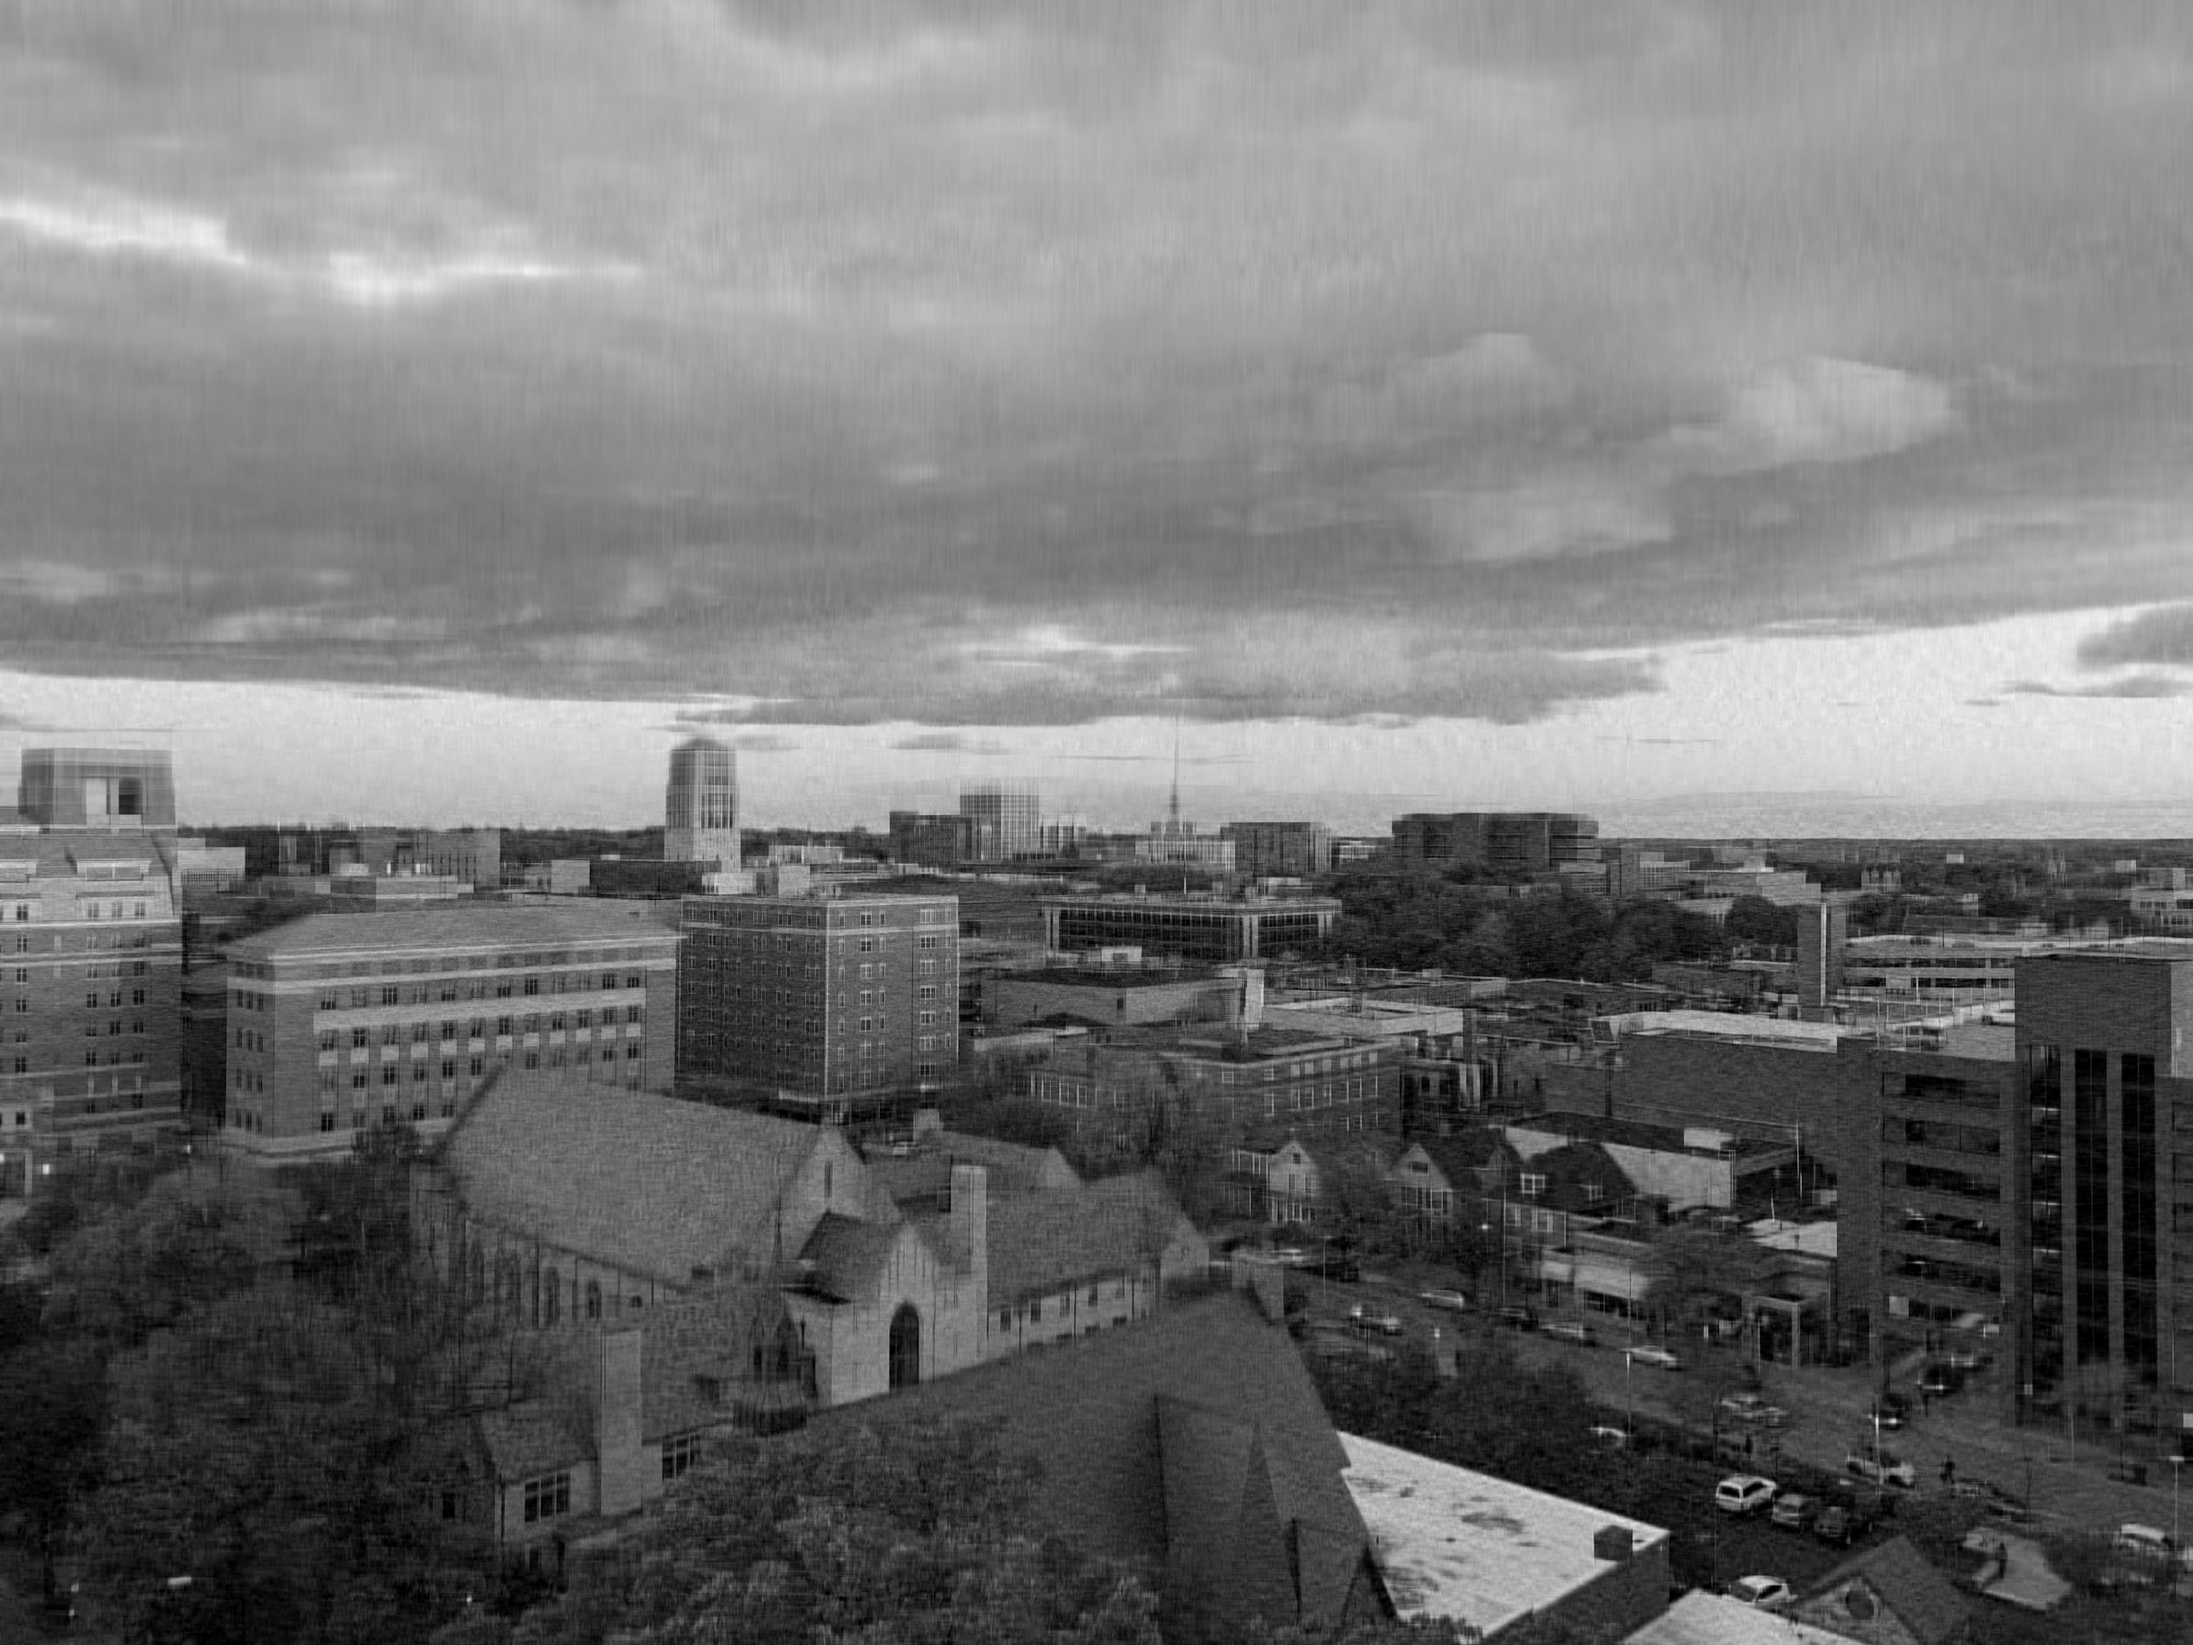
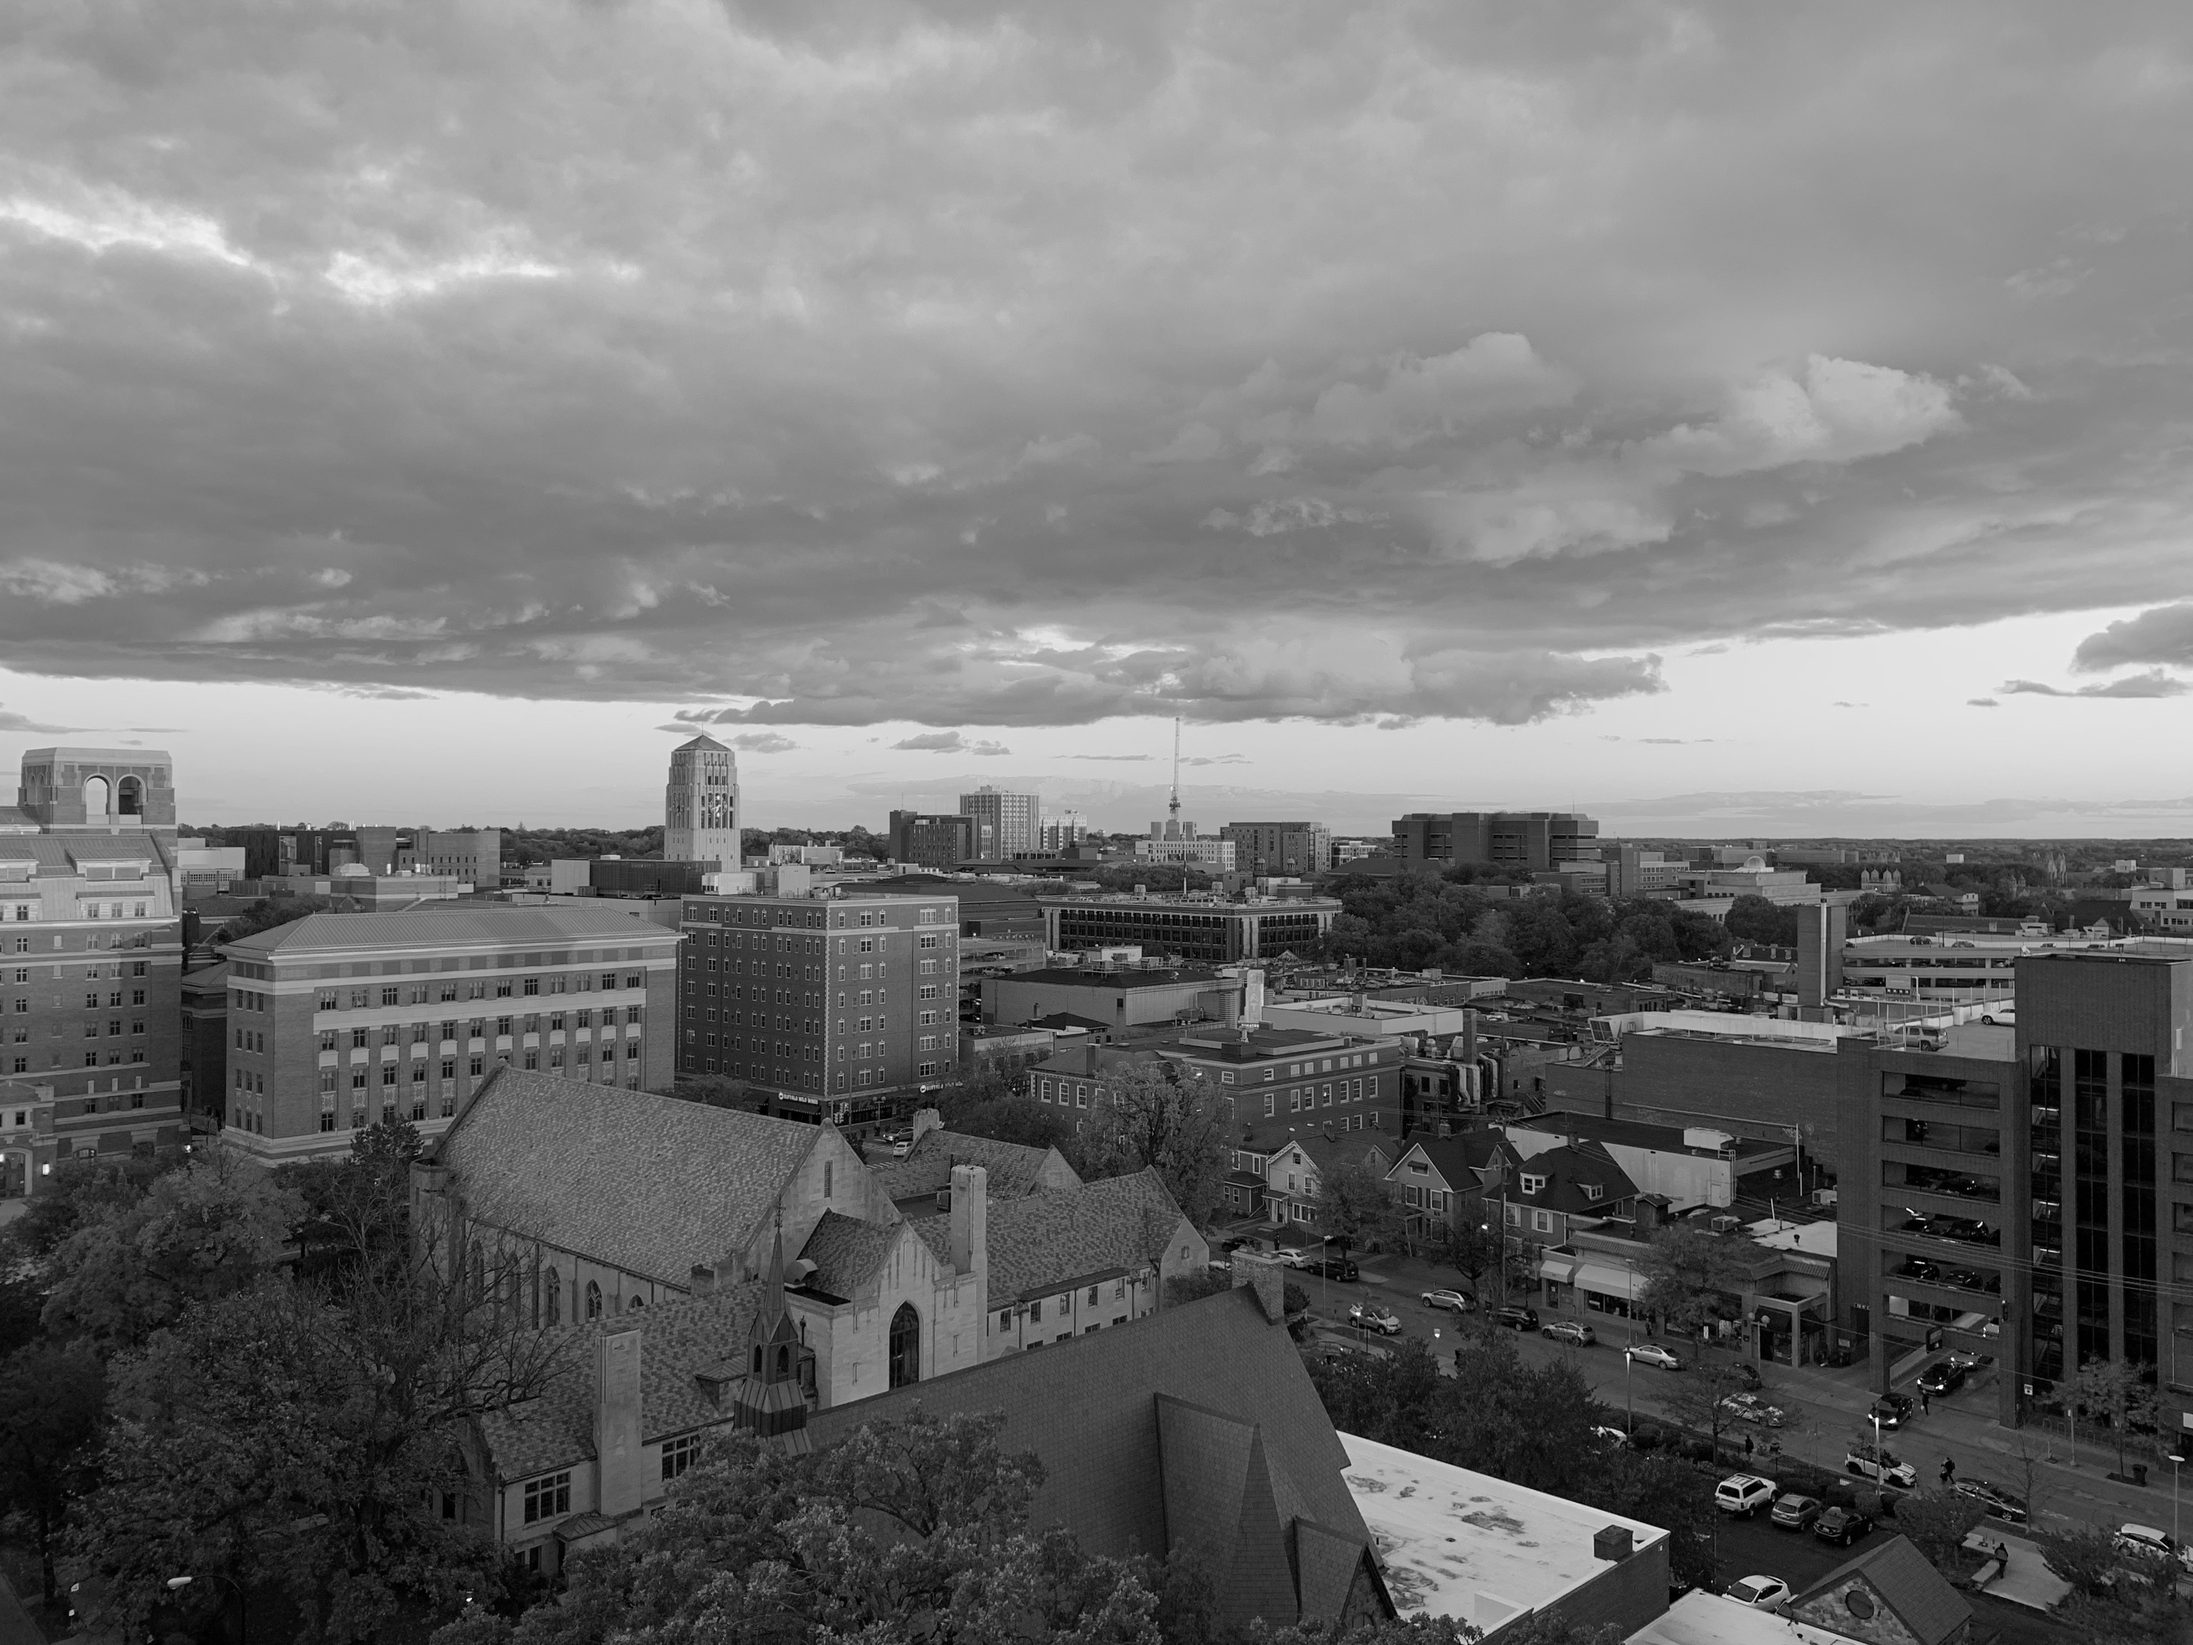
final

diff --git a/simpleSVD.py b/simpleSVD.py
@@ -1,44 +1,33 @@
-#refrence from https://www.accel.ai/anthology/2022/8/17/svd-algorithm-tutorial-in-python
+import matplotlib.pyplot as plt
 import numpy as np
-from scipy.linalg import svd
 
-#V tansposed matrix
-def calcVT(M):
-    # Compute VT matrix
-    newM = np.dot(M.T, M)
-    eigenvalues, eigenvectors = np.linalg.eig(newM)
-    idx = np.argsort(eigenvalues)[::-1]
-    V = eigenvectors[:, idx].T
+def plot_matrix(matrix):
+    plt.imshow(matrix, cmap='binary', interpolation='nearest')
+    plt.show()
 
-    return V
+# Example matrix
+matrix = np.array([[1, 1, 1, 0, 0, 0, 0, 1, 1, 1],
+ [1, 1, 1, 1, 0, 0, 1, 1, 1, 1],
+ [1, 1, 1, 1, 0, 0, 1, 1, 1, 1],
+ [0, 1, 1, 1, 1, 1, 1, 1, 1, 0],
+ [0, 1, 1, 1, 1, 1, 1, 1, 1, 0],
+ [0, 1, 1, 0, 1, 1, 0, 1, 1, 0],
+ [0, 1, 1, 0, 1, 1, 0, 1, 1, 0],
+ [1, 1, 1, 0, 0, 0, 0, 1, 1, 1],
+ [1, 1, 1, 1, 0, 0, 1, 1, 1, 1],
+ [1, 1, 1, 1, 0, 0, 1, 1, 1, 1]])
 
-def calcU(M):
-    # Compute U matrix
-    newM = np.dot(M, M.T)
-    eigenvalues, eigenvectors = np.linalg.eig(newM)
-    ncols = np.argsort(eigenvalues)[::-1] 
-    U = eigenvectors[:, ncols]
-
-    return U
-
-#Function that calculates Eigenvalues corresponding to the Sigma Matrix
-def calcD(M):
-    if np.size(np.dot(M, M.T)) > np.size(np.dot(M.T, M)):
-        newM = np.dot(M.T, M)
-    else:
-        newM = np.dot(M, M.T)
-
-    eigenvalues = np.linalg.eig(newM)
-    eigenvalues = np.sqrt(eigenvalues[0]) 
-    return np.sort(eigenvalues)[::-1]
+for k in [1, 2, 3, 4]:
+    # Perform SVD
+    U, s, Vt = np.linalg.svd(matrix, full_matrices=False)
 
 
+    U_k = U[:, :k]
+    s_k = np.diag(s[:k])
+    Vt_k = Vt[:k, :]
 
-A = np.array([[3,4,3],[1,1,-5]])
-VT = calcVT(A)
-U = calcU(A)
-S = calcD(A)
+    # Reconstruct the compressed matrix
+    compressed_matrix = np.dot(U_k, np.dot(s_k, Vt_k))
 
-print (VT, "\n")
-print(U,"\n")
-print(S)
+    print("Compressed matrix with k = {k}:")
+    plot_matrix(compressed_matrix)

diff --git a/imageSVD.py b/imageSVD.py
@@ -16,6 +16,11 @@ def svd_compress(image, k):
 image = cv2.imread('Ann_Arbor_sunset_2018.jpg', cv2.IMREAD_GRAYSCALE)
 
 image_array = np.array(image)
-compression_level = 100
+compression_level = 2923
 compressed_image = svd_compress(image_array, compression_level)
 cv2.imwrite('compressed_image.jpg', compressed_image) 
+
+
+
+
+
